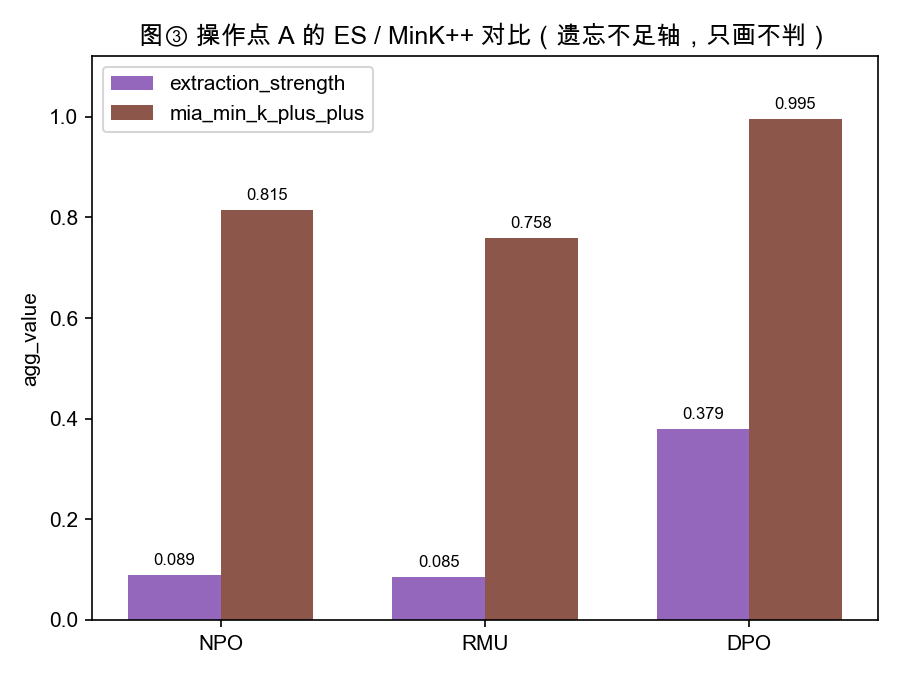
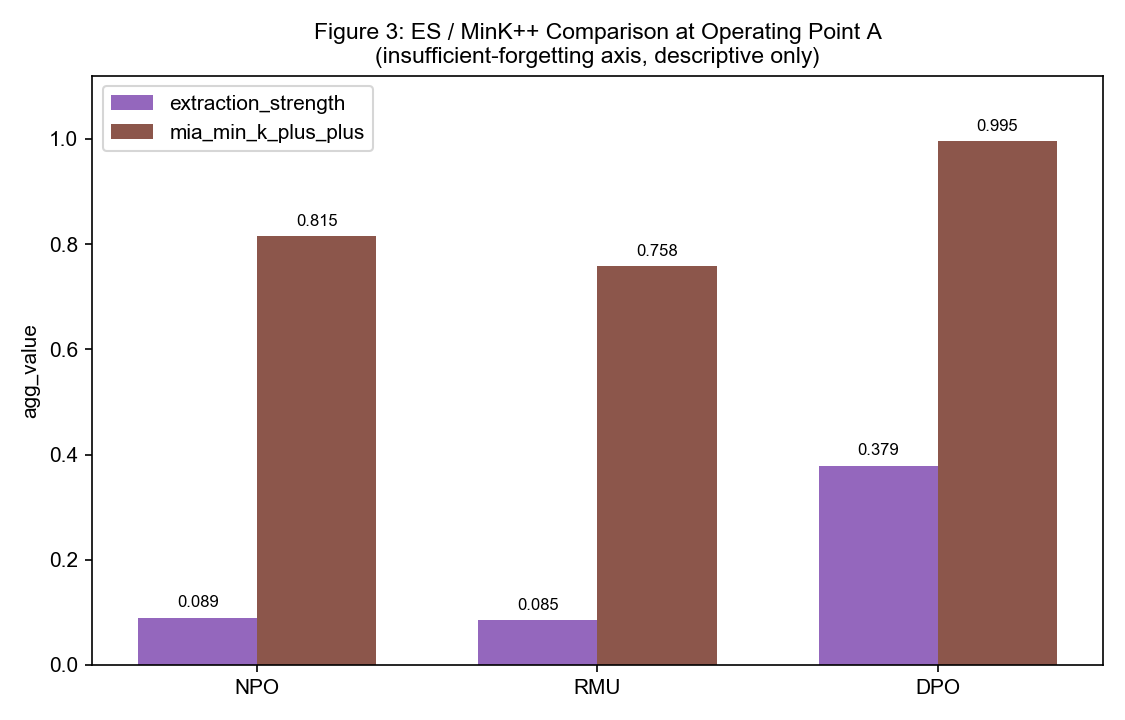
Expand fig4 to the full 16-layer sweep; switch figure labels to English
fig4 previously plotted 6 points (3 methods x {top-1, layer-7 anchor}), which
was all the transplant data available at the time. It now plots all 48 points
(3 methods x 16 layers) from results/transplant_full_sweep_{NPO,DPO,RMU}.json.
Both axes use the secondary-analysis convention (Bonferroni, CI=0.996875), so
they are statistically symmetric and can share a plot. The original top-1
confirmatory test (95% CI, n=1) is deliberately not drawn here and stands
unchanged in results/transplant_{method}.json.

fig1/fig2/fig3: titles and axis labels translated to English, fig3 canvas
widened. No change to the underlying data.

Changed region(s): [[0.0, 0.0311, 0.9956, 0.9644], [0.7156, 0.5911, 0.84, 0.6533]]

diff --git a/scripts/lib/make_figures.py b/scripts/lib/make_figures.py
@@ -6,15 +6,21 @@
   results/gate2_rmu_layer_sweep.json                     —— 第8步，RMU 16层单测（没有归一化字段，
                                                              这里用 transplant_RMU.json 的 denom 补算）
   results/transplant_{NPO,DPO,RMU}.json                  —— 第10步，top-1/layer7锚点/joint16
+  results/transplant_full_sweep_{NPO,DPO,RMU}.json       —— 第10步二级分析，16层全测移植
+                                                             （2026-09-06 新增，Bonferroni）
   results/archiveA/{NPO,RMU,DPO}.json                    —— 第6步，A点的 full eval 存档
 
 图②用 retain_Q_A_ROUGE 代 model_utility（2026-09-05 决定，constants-v4.yaml
 restoration.significance.metric_for_catastrophic_axis）——model_utility 没有 value_by_index，
 retain_Q_A_ROUGE 结构相同、已实测确认可代替，图上标注清楚这个替代关系。
 
-图④只用 forget 轴：necessity/sufficiency 这套对称定义本来就是在 forget 轴上建立的
-（transplant_damage_definition），且只有 top-1 层和 layer7 锚点两个点同时有第9步(recovery)
-和第10步(damage)的数据，6个点（3方法 × 2层）。
+图④只用 forget 轴，48个点（3方法 × 16层）：横轴necessity(recovery，第9步换回扫描)，
+纵轴sufficiency(damage，第10步二级分析·全16层移植扫描)，两边都是Bonferroni口径
+（CI=0.996875，n_tests=16，见 constants-v4.yaml restoration.significance 和
+transplant_full_sweep_significance）——统计上对称、可以画在同一张图上。
+**这跟 transplant.py 原来那次 top-1 确认性检验（95% CI、n=1）是两套不同的统计处理，
+互不覆盖：top-1 那次的结论原样保留在 results/transplant_{method}.json 里，不在这张图上
+重复画出来，避免把两种显著性标准混进同一张图**（2026-09-06 决定）。
 
 跑在本地 Mac 上：python3 scripts/lib/make_figures.py
 """
@@ -48,6 +54,7 @@ sweep = {
     "RMU": load("gate2_rmu_layer_sweep.json"),
 }
 transplant = {m: load(f"transplant_{m}.json") for m in METHODS}
+transplant_full = {m: load(f"transplant_full_sweep_{m}.json") for m in METHODS}
 archiveA = {m: json.load(open(RESULTS / "archiveA" / f"{m}.json")) for m in METHODS}
 
 # RMU 的 sweep 没有归一化字段（gate2.py 没算），用 transplant_RMU.json 里已经算过的同一个 denom 补
@@ -86,15 +93,15 @@ for m in METHODS:
     ax1.scatter([L for L, s in zip(layers, sigs) if not s], [r for r, s in zip(rec, sigs) if not s],
                 facecolors="white", edgecolors=COLOR[m], marker="o", s=45, zorder=3)
 ax1.axhline(0, color="gray", linewidth=0.7)
-ax1.set_ylabel("归一化恢复量 %（forget 轴，实心=显著）")
-ax1.set_title("图① 逐层恢复量（必要性）vs ‖Δθ_layer‖ —— NPO / RMU / DPO")
+ax1.set_ylabel("Normalized Recovery % (forget axis, filled = significant)")
+ax1.set_title("Figure 1: Per-Layer Recovery (Necessity) vs ‖Δθ_layer‖ — NPO / RMU / DPO")
 ax1.legend(loc="upper right")
 
 for m in METHODS:
     delta = [raw_delta(m, L) for L in layers]
     ax2.plot(layers, delta, "-o", color=COLOR[m], label=m, linewidth=1.5, markersize=4)
-ax2.set_xlabel("层号（0-15）")
-ax2.set_ylabel("‖Δθ_layer‖（L2 范数，权重空间）")
+ax2.set_xlabel("Layer index (0-15)")
+ax2.set_ylabel("‖Δθ_layer‖ (L2 norm, weight space)")
 ax2.set_xticks(layers)
 ax2.legend(loc="upper right")
 
@@ -116,11 +123,12 @@ for m in METHODS:
     ax.scatter([L for L, s in zip(layers, sigs) if not s], [r for r, s in zip(rec, sigs) if not s],
                facecolors="white", edgecolors=COLOR[m], marker="o", s=45, zorder=3)
 ax.axhline(0, color="gray", linewidth=0.7)
-ax.set_xlabel("层号（0-15）")
-ax.set_ylabel("归一化恢复量 %（retain 轴，实心=显著）")
+ax.set_xlabel("Layer index (0-15)")
+ax.set_ylabel("Normalized Recovery % (retain axis, filled = significant)")
 ax.set_xticks(layers)
-ax.set_title("图② 换回哪层能修回 utility 损伤\n"
-              "(retain_Q_A_ROUGE 代 model_utility——后者无 value_by_index，只画不判，见 constants-v4.yaml)",
+ax.set_title("Figure 2: Which Layer Restores the Utility Damage\n"
+              "(retain_Q_A_ROUGE as proxy for model_utility — the latter has no value_by_index, "
+              "descriptive only, see constants-v4.yaml)",
               fontsize=10)
 ax.legend(loc="upper right")
 fig.tight_layout()
@@ -131,7 +139,7 @@ plt.close(fig)
 # ---------------------------------------------------------------------------
 # 图③ 三个方法在操作点 A 的 ES / MinK++ 对比
 # ---------------------------------------------------------------------------
-fig, ax = plt.subplots(figsize=(6, 4.5))
+fig, ax = plt.subplots(figsize=(7.5, 4.8))
 x = range(len(METHODS))
 w = 0.35
 es = [archiveA[m]["extraction_strength"]["agg_value"] for m in METHODS]
@@ -142,7 +150,8 @@ ax.set_xticks(list(x))
 ax.set_xticklabels(METHODS)
 ax.set_ylabel("agg_value")
 ax.set_ylim(0, 1.12)
-ax.set_title("图③ 操作点 A 的 ES / MinK++ 对比（遗忘不足轴，只画不判）")
+ax.set_title("Figure 3: ES / MinK++ Comparison at Operating Point A\n(insufficient-forgetting axis, descriptive only)",
+             fontsize=11)
 ax.legend()
 for i, (e, k) in enumerate(zip(es, mink)):
     ax.text(i - w / 2, e + 0.02, f"{e:.3f}", ha="center", fontsize=8)
@@ -153,45 +162,51 @@ plt.close(fig)
 
 
 # ---------------------------------------------------------------------------
-# 图④ 必要性(recovery, forget轴) × 充分性(damage, forget轴) 散点
+# 图④ 必要性(recovery, forget轴) × 充分性(damage, forget轴) 散点 —— 48点二级分析
+# 2026-09-06 改版：从"top-1+layer7锚点"6个点扩到16层全测的48个点。两轴都是Bonferroni
+# 口径（CI=0.996875，n_tests=16），实心=充分性(y轴)过Bonferroni显著，空心=没过。
+# 原 transplant.py 的 top-1 确认性检验（95% CI，n=1）不在这张图上重复画出，见图注。
 # ---------------------------------------------------------------------------
-fig, ax = plt.subplots(figsize=(6.5, 6))
+fig, ax = plt.subplots(figsize=(7.5, 6.5))
 for m in METHODS:
-    t = transplant[m]
-    top1_L = t["top1_layer"]
-    anchor_L = t["anchor_layer"]
-    points = [
-        (top1_L, "top1", "o",
-         norm_recovery(m, top1_L, "forget_axis"),
-         t["top1_result_confirmatory"]["forget_axis"]["normalized_damage"]),
-    ]
-    if anchor_L != top1_L:
-        points.append(
-            (anchor_L, "anchor", "^",
-             norm_recovery(m, anchor_L, "forget_axis"),
-             t["anchor_result_exploratory"]["forget_axis"]["normalized_damage"])
-        )
-    for L, role, marker, x_val, y_val in points:
-        ax.scatter(x_val * 100, y_val * 100, color=COLOR[m], marker=marker, s=110,
-                   edgecolors="black", linewidths=0.6, zorder=3)
-        ax.annotate(f"{m}-L{L}", (x_val * 100, y_val * 100),
-                    textcoords="offset points", xytext=(6, 4), fontsize=8)
+    layer_res = transplant_full[m]["layer_results"]
+    for L in range(N_LAYERS):
+        x_val = norm_recovery(m, L, "forget_axis") * 100
+        y_axis = layer_res[str(L)]["forget_axis"]
+        y_val = y_axis["normalized_damage"] * 100
+        is_sig = y_axis["significant"]
+        if is_sig:
+            ax.scatter(x_val, y_val, color=COLOR[m], marker="o", s=70,
+                       edgecolors="black", linewidths=0.6, zorder=3)
+        else:
+            ax.scatter(x_val, y_val, facecolors="white", edgecolors=COLOR[m], marker="o",
+                       s=70, linewidths=1.3, zorder=3)
 ax.axhline(0, color="gray", linewidth=0.7)
 ax.axvline(0, color="gray", linewidth=0.7)
-ax.set_xlabel("必要性：归一化恢复量 %（第9步，换回=减法，forget 轴）")
-ax.set_ylabel("充分性：归一化损伤 %（第10步，移植=加法，forget 轴）")
-ax.set_title("图④ 必要性 × 充分性散点\n○=各方法 top-1 层（forget 轴排名） △=layer 7 锚点（探索性）",
+ax.set_xlabel("Necessity: Normalized Recovery % (Step 9 restore sweep, forget axis, Bonferroni CI=0.996875)")
+ax.set_ylabel("Sufficiency: Normalized Damage %\n(Step 10 secondary full 16-layer transplant sweep, "
+              "forget axis, Bonferroni CI=0.996875)")
+ax.set_title("Figure 4: Necessity × Sufficiency Scatter (3 methods × 16 layers = 48 points)\n"
+             "Filled = sufficiency significant (Bonferroni)   Hollow = not significant",
              fontsize=10)
 from matplotlib.lines import Line2D
 legend_elems = [Line2D([0], [0], marker="o", color="w", markerfacecolor=c, markeredgecolor="black",
                        markersize=9, label=m) for m, c in COLOR.items()]
-legend_elems += [Line2D([0], [0], marker="o", color="w", markerfacecolor="gray", markeredgecolor="black",
-                        markersize=9, label="top-1"),
-                 Line2D([0], [0], marker="^", color="w", markerfacecolor="gray", markeredgecolor="black",
-                        markersize=9, label="layer7锚点")]
-ax.legend(handles=legend_elems, loc="best", fontsize=8)
-fig.tight_layout()
-fig.savefig(FIGDIR / "fig4_necessity_sufficiency.png", dpi=150)
+ax.legend(handles=legend_elems, loc="best", fontsize=9)
+fig.text(0.5, 0.085,
+          "Note: both axes here use the secondary-analysis convention (16 simultaneous tests, "
+          "Bonferroni, CI=0.996875).",
+          ha="center", fontsize=7.5, color="dimgray")
+fig.text(0.5, 0.05,
+          "The original transplant.py top-1 single-layer confirmatory test (95% CI, n=1, one layer "
+          "pre-selected by necessity ranking)",
+          ha="center", fontsize=7.5, color="dimgray")
+fig.text(0.5, 0.015,
+          "stands independently and is not overwritten or mixed into this plot — see "
+          "top1_result_confirmatory in transplant_{method}.json.",
+          ha="center", fontsize=7.5, color="dimgray")
+fig.tight_layout(rect=[0, 0.14, 1, 1])
+fig.savefig(FIGDIR / "fig4_necessity_sufficiency.png", dpi=150, bbox_inches="tight")
 plt.close(fig)
 
 print("四张图已生成：")
